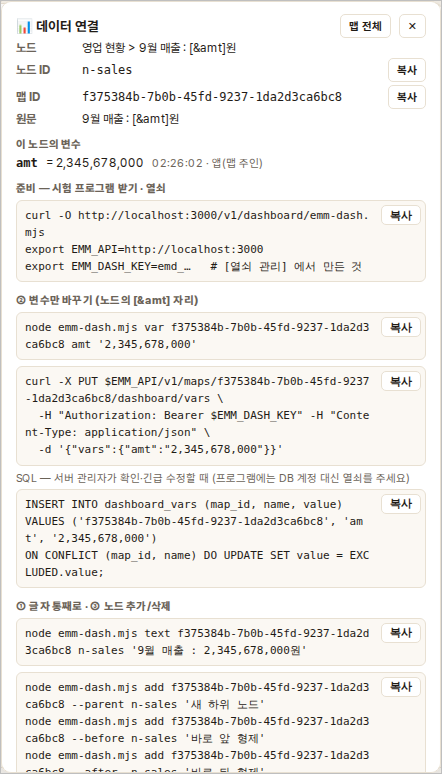
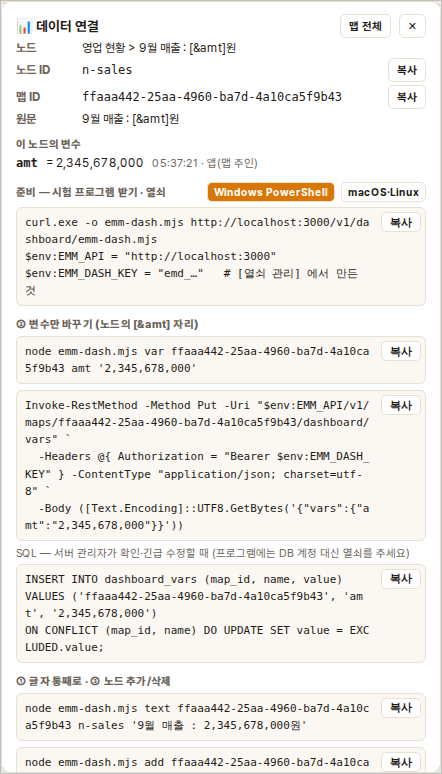
대시보드맵 가이드 — Windows PowerShell 안내 · 카드/열쇠 그림 다시 찍음 (#597)
사용자의 첫 dev 시험이 PowerShell 이었다: `export` 가 없고 `curl`(=Invoke-WebRequest 별명)이
-O 를 몰라 파일을 받지 못했다.
- §6 준비: Windows PowerShell(curl.exe -o · $env:) / macOS·Linux 두 벌, 막혔을 때 브라우저로 저장
- 다른 프로그램에서: PowerShell Invoke-RestMethod(본문 UTF-8 바이트 — 5.1 한글 깨짐)
- 카드 그림(PowerShell 모양) · 열쇠 그림([환경 변수 줄로 복사]) 을 pro 화면 시험이 다시 찍은 것으로

Claude-Session: https://claude.ai/code/session_01AoGXgGWrXHbWMncuBzWjkj

diff --git a/docs/user-guide/13-대시보드맵.md b/docs/user-guide/13-대시보드맵.md
@@ -84,7 +84,7 @@
 대시보드맵에서 **노드를 클릭하면** 오른쪽에 카드가 뜹니다(도구줄의 **🔌 연결** 로도
 엽니다).
 
-<img src="assets/13-dashboard-card.png" width="440" alt="데이터 연결 카드 — 노드 경로 · 노드 ID · 맵 ID · 원문 9월 매출 : [&amt]원 · 이 노드의 변수 amt = 2,345,678,000 · 시험 프로그램 받기 · ② 변수만 바꾸기(emm-dash · curl · SQL) · ① 통째로 · ③ 추가/삭제 명령 · [복사] 단추">
+<img src="assets/13-dashboard-card.png" width="440" alt="데이터 연결 카드 — 노드 경로 · 노드 ID · 맵 ID · 원문 9월 매출 : [&amt]원 · 이 노드의 변수 amt = 2,345,678,000 · 준비 칸의 [Windows PowerShell | macOS·Linux] 전환 · 시험 프로그램 받기 · ② 변수만 바꾸기(emm-dash · curl · SQL) · ① 통째로 · ③ 추가/삭제 명령 · [복사] 단추">
 
 | 칸 | 무엇 |
 |---|---|
@@ -107,10 +107,10 @@
 
 1. [데이터 연결] 카드 아래 **[🔑 열쇠 관리]** 를 누릅니다.
 2. 이름(예: `ERP 연동`)을 적고 **[만들기]**.
-3. 주황 상자에 **열쇠 원문이 한 번만** 보입니다 — **[export 줄로 복사]** 해 프로그램 쪽에
+3. 주황 상자에 **열쇠 원문이 한 번만** 보입니다 — **[환경 변수 줄로 복사]** 해 프로그램 쪽에
    넣어 두세요. 창을 닫으면 다시 볼 수 없습니다(서버는 원문을 갖고 있지 않습니다).
 
-<img src="assets/13-dashboard-key.png" width="440" alt="열쇠 관리 — 열쇠 이름 칸과 [만들기], 주황 상자 안에 새 열쇠 emd_… 원문과 [복사] [export 줄로 복사] [다 적었습니다], 아래 열쇠 목록과 [폐기]">
+<img src="assets/13-dashboard-key.png" width="440" alt="열쇠 관리 — 열쇠 이름 칸과 [만들기], 주황 상자 안에 새 열쇠 emd_… 원문과 [복사] [환경 변수 줄로 복사] [다 적었습니다], 아래 열쇠 목록과 [폐기]">
 
 - 이 열쇠로는 **이 맵만** 바꿀 수 있습니다. 다른 맵·다른 사용자 데이터에 닿지 못합니다.
 - 잃어버렸거나 새어 나갔으면 **[폐기]** — 그 열쇠를 쓰던 프로그램은 바로 막힙니다.
@@ -121,13 +121,32 @@
 ## 6. 시험해 보기 — `emm-dash`
 
 `emm-dash` 는 Node.js 18 이상만 있으면 도는 **파일 하나짜리** 시험 프로그램입니다.
-카드의 **준비** 칸에 있는 두 줄을 터미널에 붙여넣으면 받아집니다.
+카드의 **준비** 칸 오른쪽에서 **[Windows PowerShell | macOS·Linux]** 를 고르면 그 셸에 맞는
+명령이 나옵니다(처음에는 브라우저로 짐작합니다). 한 줄씩 붙여넣으세요.
+
+**Windows PowerShell**
+
+```powershell
+curl.exe -o emm-dash.mjs https://api-dev.mindmap.ai.kr/v1/dashboard/emm-dash.mjs
+$env:EMM_API = "https://api-dev.mindmap.ai.kr"
+$env:EMM_DASH_KEY = "emd_…"        # 5장에서 만든 열쇠 — 이 창에서만 유효합니다
+```
+
+> ★ PowerShell 에서는 `export` 가 없고, `curl` 이 **다른 명령(Invoke-WebRequest)의 별명**이라
+> `-O` 를 모릅니다(물어보는 `Uri:` 에 아무거나 넣으면 "원격 서버에 연결할 수 없습니다" 가 납니다).
+> 진짜 curl 인 **`curl.exe`** 를 쓰세요(Windows 10 이상에 들어 있습니다). 받기가 막히면 브라우저로
+> 같은 주소를 열어 `emm-dash.mjs` 이름으로 저장해도 됩니다.
+
+**macOS · Linux (bash·zsh)**
 
 ```bash
-curl -O https://api-dev.mindmap.ai.kr/v1/dashboard/emm-dash.mjs
+curl -o emm-dash.mjs https://api-dev.mindmap.ai.kr/v1/dashboard/emm-dash.mjs
 export EMM_API=https://api-dev.mindmap.ai.kr
 export EMM_DASH_KEY=emd_…          # 5장에서 만든 열쇠
 ```
+
+아래 `node emm-dash.mjs …` 명령은 **두 셸에서 같습니다.** 값에 띄어쓰기가 있으면 따옴표로
+감쌉니다(`"…"` 은 둘 다 됩니다).
 
 ```bash
 node emm-dash.mjs nodes <맵ID>                               # 노드 ID · 경로 · 원문 · 채운 글자
@@ -158,7 +177,18 @@ node emm-dash.mjs demo  <맵ID> amt --count 5 --every 3
 - 여러 변경을 한 번에 보내면(`ops`) **전부 되거나 전부 안 됩니다** — 반쯤 바뀐 대시보드는
   만들어지지 않습니다.
 
-### 다른 프로그램에서 — `curl`
+### 다른 프로그램에서 — `curl` / PowerShell
+
+카드의 명령 칸도 고른 셸에 맞춰 나옵니다. PowerShell 은 `Invoke-RestMethod` 이고, 본문을 **UTF-8
+바이트**로 보냅니다(Windows PowerShell 5.1 은 글자 본문의 한글이 깨집니다).
+
+```powershell
+Invoke-RestMethod -Method Put -Uri "$env:EMM_API/v1/maps/<맵ID>/dashboard/vars" `
+  -Headers @{ Authorization = "Bearer $env:EMM_DASH_KEY" } -ContentType "application/json; charset=utf-8" `
+  -Body ([Text.Encoding]::UTF8.GetBytes('{"vars":{"amt":"2,345,678,000","op":"18.4%"}}'))
+```
+
+bash:
 
 ```bash
 # ② 변수

diff --git a/docs/05-implementation/test-catalog.md b/docs/05-implementation/test-catalog.md
@@ -482,6 +482,9 @@
 > 겹쳐 보이지만 날짜와 함께 읽으면 유일하다. **고치지 말 것** — 그때의
 > 기록을 지금 규칙으로 고쳐 쓰면 없던 역사를 만드는 셈이다.
 
+- 2026-09-30 (278차): **대시보드맵 가이드 — Windows PowerShell 안내**(문서만). 사용자의 첫
+  dev 시험이 PowerShell 이라 `export`·`curl -O` 가 안 됐다 — `curl.exe -o` · `$env:` ·
+  `Invoke-RestMethod`(UTF-8 본문). 카드 쪽은 pro-e2e35. dev 실물로 `nodes`·`demo` 반영 확인.
 - 2026-09-30 (277차): **e2e321 — 대시보드맵을 사내 시스템에 붙이는 링크**. 새 링크 대신
   기존 퍼블리싱을 열었다(링크까지만 — 지식창고·유료는 막음). 공개 화면이 10초마다 표식만
   묻고 스스로 갱신, `?embed=1` 로 iframe. 규칙 단위 26, e2e 는 pro-e2e34.
